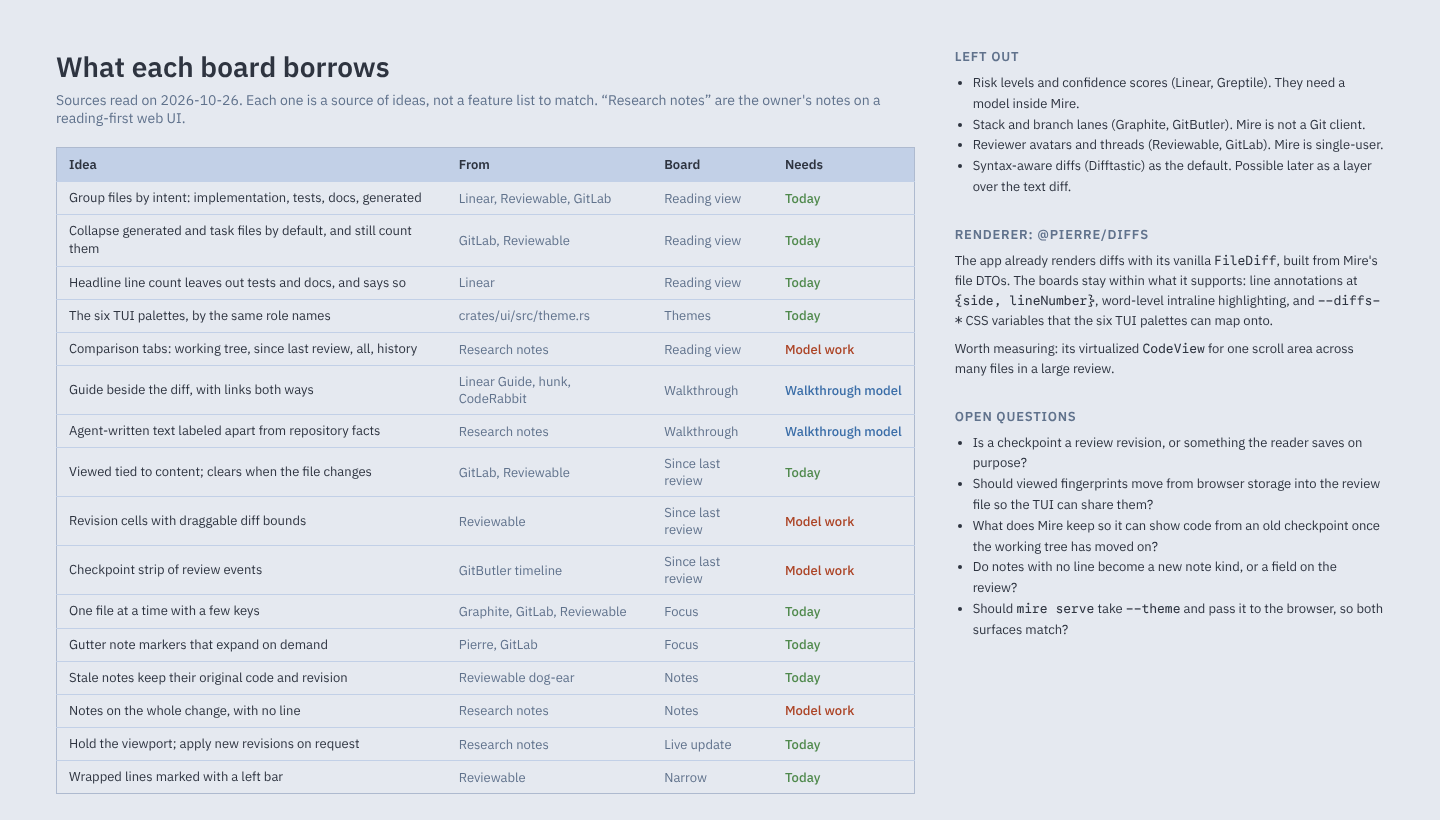
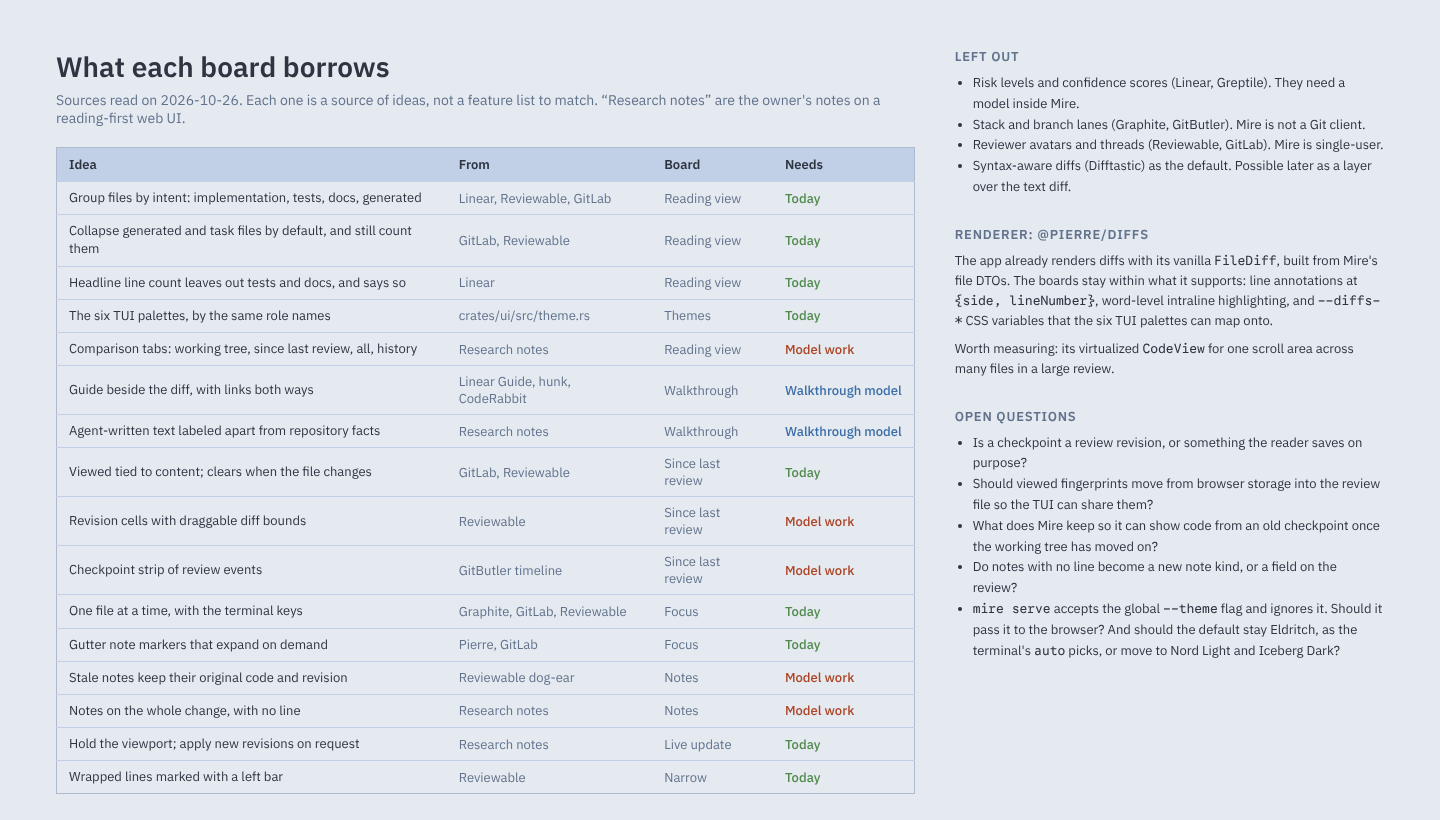
docs: match board keys, theme flag and stale notes to the code
Claude-Session: https://claude.ai/code/session_01McED3zcaewkwybS2P4vZya

Changed region(s): [[0.6875, 0.7317, 0.9688, 0.8232], [0.125, 0.7317, 0.2188, 0.7622], [0.5312, 0.8232, 0.5938, 0.8537]]

diff --git a/assets/design/web-redesign/README.md b/assets/design/web-redesign/README.md
@@ -9,22 +9,23 @@ you last looked, what you have read, and what you noted. The colors are the
 six terminal themes from `crates/ui/src/theme.rs`, applied with the same roles.
 
 Some boards need data the review file does not hold yet: comparison
-checkpoints, revision cells, and notes with no line. Walkthrough mode needs the
+checkpoints, revision cells, the code a stale note was written on, and notes
+with no line. Walkthrough mode needs the
 walkthrough model described in the docs under
 [Walkthrough design](../../../packages/docs/src/content/docs/concepts/walkthrough-design.md).
 `sources.png` marks which ideas work with today's data.
 
-| Image | Shows |
-| --- | --- |
-| `reading-view.png` | Files grouped by intent, the diff with an inline finding, and the notes panel, in Nord Light |
-| `reading-view-iceberg-dark.png` | The same view in Iceberg Dark |
-| `walkthrough.png` | An agent-written step beside its anchored hunks from two files |
-| `since-last-review.png` | Files changed since they were marked viewed, revision cells, and a checkpoint strip |
-| `focus-mode.png` | One file at full width with the key bar |
-| `notes-and-anchoring.png` | A stale note beside the closest current code, and the five anchor states |
-| `live-update.png` | A new revision held until applied, a kept draft after a conflict, and a stopped watch |
-| `finish-review.png` | What is left before handoff, and the exports |
-| `narrow.png` | The diff at 390 pixels wide with wrapped lines |
-| `principles.png` | The rules, type, theme roles, and status marks |
-| `themes.png` | The six terminal themes on the same diff |
-| `sources.png` | Which review tools each idea comes from, and what was left out |
+| Image                           | Shows                                                                                        |
+| ------------------------------- | -------------------------------------------------------------------------------------------- |
+| `reading-view.png`              | Files grouped by intent, the diff with an inline finding, and the notes panel, in Nord Light |
+| `reading-view-iceberg-dark.png` | The same view in Iceberg Dark                                                                |
+| `walkthrough.png`               | An agent-written step beside its anchored hunks from two files                               |
+| `since-last-review.png`         | Files changed since they were marked viewed, revision cells, and a checkpoint strip          |
+| `focus-mode.png`                | One file at full width with the key bar                                                      |
+| `notes-and-anchoring.png`       | A stale note beside the closest current code, and the five anchor states                     |
+| `live-update.png`               | A new revision held until applied, a kept draft after a conflict, and a stopped watch        |
+| `finish-review.png`             | What is left before handoff, and the exports                                                 |
+| `narrow.png`                    | The diff at 390 pixels wide with wrapped lines                                               |
+| `principles.png`                | The rules, type, theme roles, and status marks                                               |
+| `themes.png`                    | The six terminal themes on the same diff                                                     |
+| `sources.png`                   | Which review tools each idea comes from, and what was left out                               |

diff --git a/.arcl/workspace/captures/arcl-c-01M5WH5KW7ET7PRYJJNE9K21GN.md b/.arcl/workspace/captures/arcl-c-01M5WH5KW7ET7PRYJJNE9K21GN.md
@@ -5,4 +5,4 @@ status = "captured"
 created-at = "2026-10-26T16:37:18.343Z"
 +++
 
-The browser review uses its own paper palette in `packages/app/src/app.css`, while the terminal has six themes in `crates/ui/src/theme.rs`. Give the web app the same palettes, mapped to the same roles `Theme::from_palette` uses, with Nord Light as the light default and Iceberg Dark as the dark one. `mire serve` could take `--theme` as the TUI does. The boards in `assets/design/web-redesign` show the mapping. Some pairs read below 4.5:1 on their own background and should change in both places: muted text and accent on Nord Light and Eldritch Dusk, and muted text on Catppuccin Latte.
+The browser review uses its own paper palette in `packages/app/src/app.css`, while the terminal has six themes in `crates/ui/src/theme.rs`. Give the web app the same palettes, mapped to the same roles `Theme::from_palette` uses. `mire serve` already accepts the global `--theme` flag but ignores it; pass it to the browser so both surfaces match. The terminal's `auto` default picks Eldritch, while the boards in `assets/design/web-redesign` use Nord Light and Iceberg Dark, so choose one default for both. Some pairs read below 4.5:1 on their own background and should change in both places: muted text and accent on Nord Light and Eldritch Dusk, and muted text on Catppuccin Latte.
